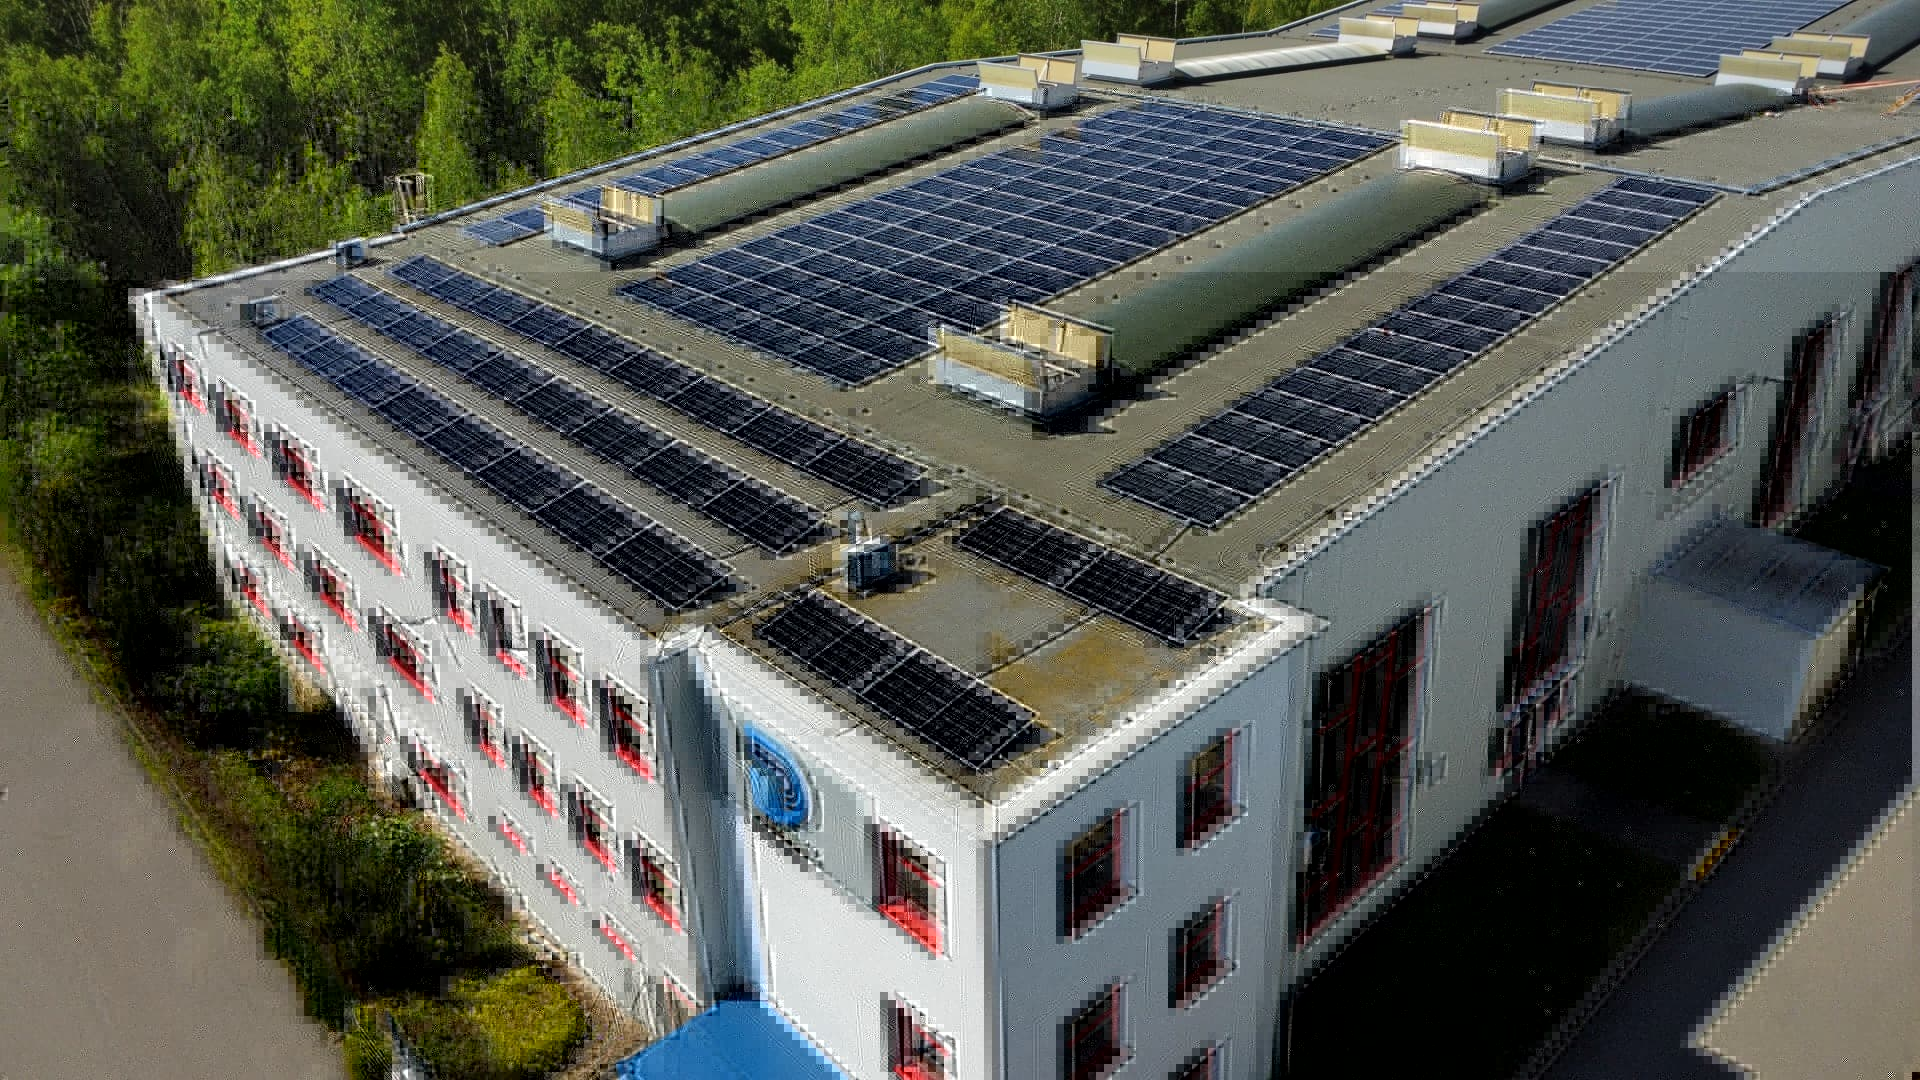
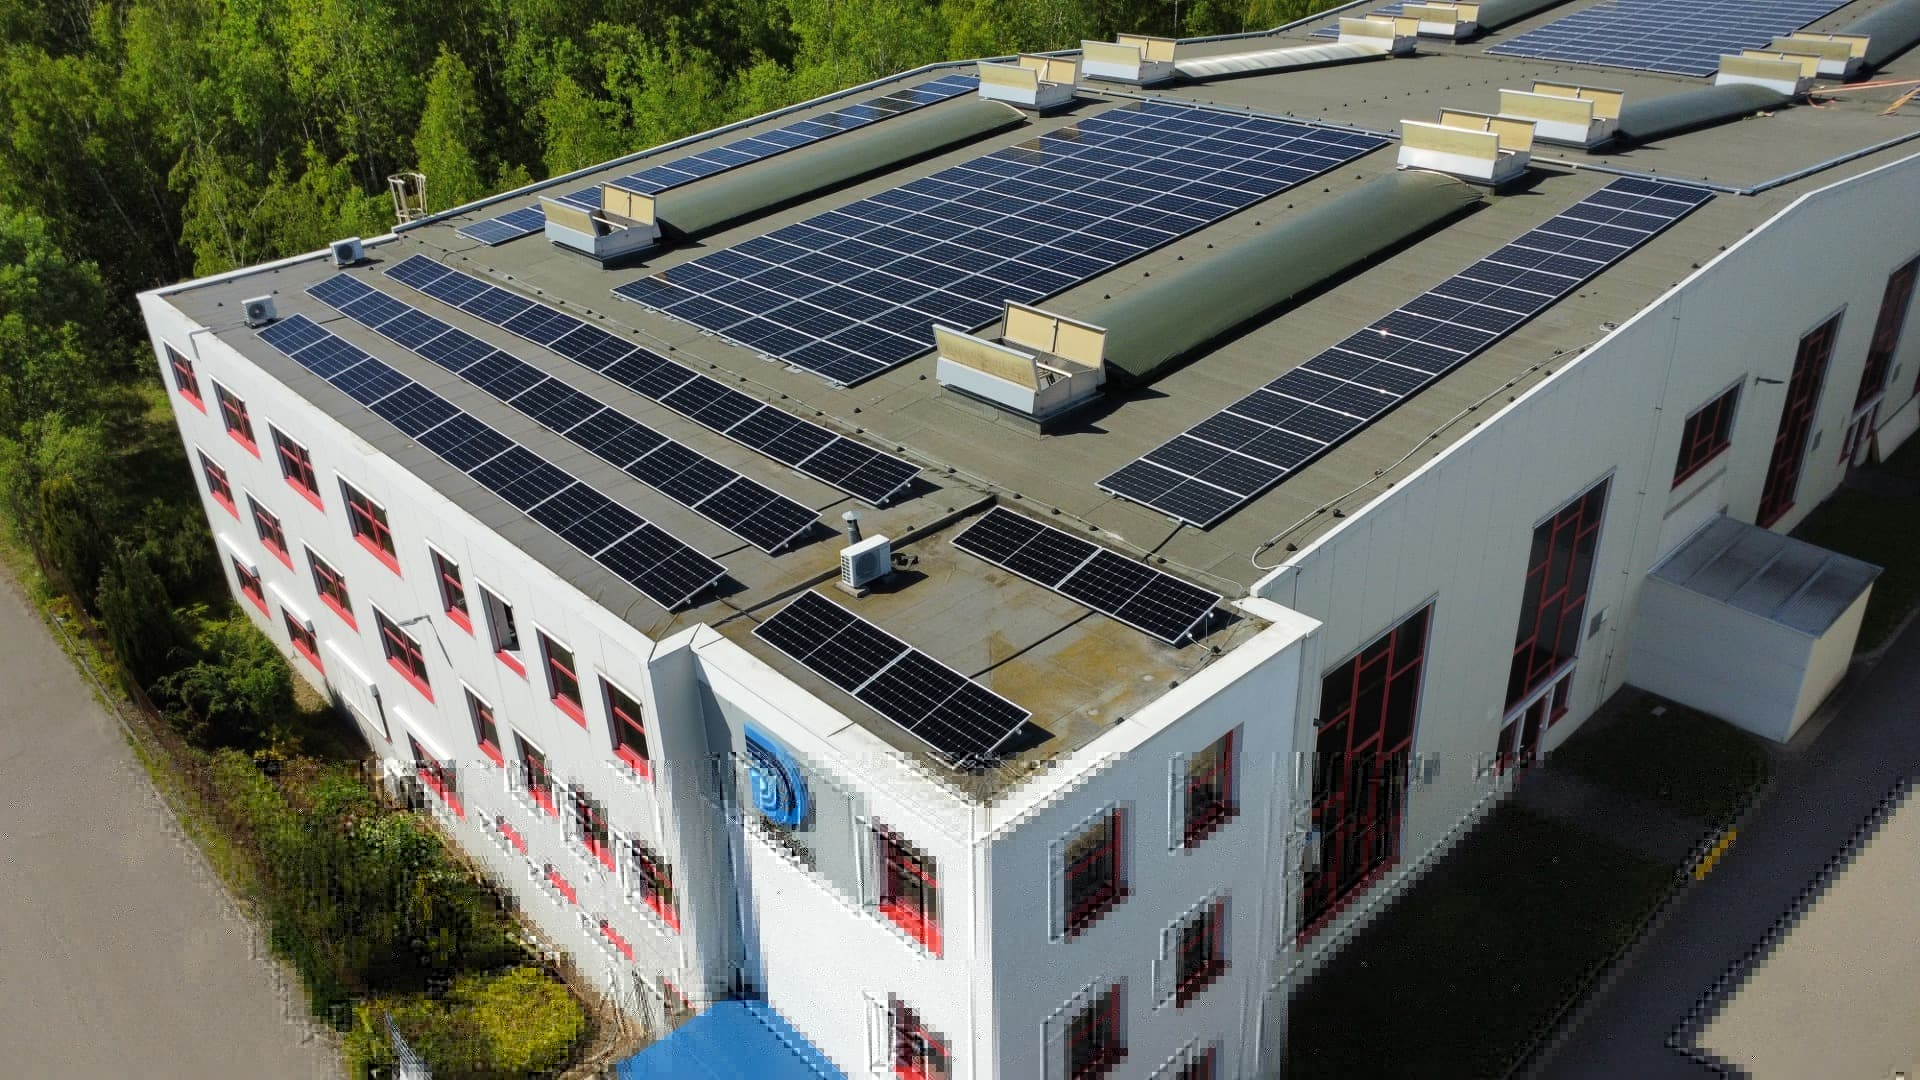
Aktualizace formátu fotek

diff --git a/templates/index.html b/templates/index.html
@@ -127,7 +127,7 @@
                                 <div class="portfolio-hover">
                                     <div class="portfolio-hover-content"><i class="fas fa-plus fa-3x"></i></div>
                                 </div>
-                                <img class="img-fluid" src="{{ url_for('static', filename='images/firma.jpg') }}" alt="firemní dům s fotovoltaikou">
+                                <img class="img-fluid" src="{{ url_for('static', filename='images/firma1.jpg') }}" alt="firemní dům s fotovoltaikou">
                             </a>
                             <div class="portfolio-caption">
                                 <div class="portfolio-caption-heading">FIRMY</div>
@@ -453,7 +453,7 @@ document.getElementById("contactForm").addEventListener("submit", async function
                                     <!-- Project details-->
                                     <h2 class="text-uppercase">BYTOVÉ DOMY</h2>
                                     <p class="item-intro text-muted">Lorem ipsum dolor sit amet consectetur.</p>
-                                    <img class="img-fluid d-block mx-auto" src="{{ url_for('static', filename='images/panelak.jpg') }}" alt="bytový dům s fotovoltaikou">
+                                    <img class="img-fluid d-block mx-auto" src="{{ url_for('static', filename='images/panelak2.jpg') }}" alt="bytový dům s fotovoltaikou">
                                     <p>Use this area to describe your project. Lorem ipsum dolor sit amet, consectetur adipisicing elit. Est blanditiis dolorem culpa incidunt minus dignissimos deserunt repellat aperiam quasi sunt officia expedita beatae cupiditate, maiores repudiandae, nostrum, reiciendis facere nemo!</p>
                                     <ul class="list-inline">
                                         <li>

diff --git a/docs/static/styles.css b/docs/static/styles.css
@@ -10894,6 +10894,9 @@ p {
   font-family: "Montserrat", -apple-system, BlinkMacSystemFont, "Segoe UI", Roboto, "Helvetica Neue", Arial, sans-serif, "Apple Color Emoji", "Segoe UI Emoji", "Segoe UI Symbol", "Noto Color Emoji";
   text-transform: uppercase;
   font-weight: 700;
+  color: black !important;
+  border-color: black;
+  border-width: 4px;
 }
 #mainNav .navbar-brand {
   color: #ffc800;
@@ -11265,7 +11268,7 @@ header.masthead .masthead-heading {
 
 section#contact {
   background-color: #005;
-  background-image: url("../static/images/map-image.avif");
+  background-image: url("../static/images/map-image.jpg");
   background-repeat: no-repeat;
   background-position: center;
 }

diff --git a/docs/index.html b/docs/index.html
@@ -127,7 +127,7 @@
                                 <div class="portfolio-hover">
                                     <div class="portfolio-hover-content"><i class="fas fa-plus fa-3x"></i></div>
                                 </div>
-                                <img class="img-fluid" src="static/images/firma.jpg" alt="firemní dům s fotovoltaikou">
+                                <img class="img-fluid" src="static/images/firma1.jpg" alt="firemní dům s fotovoltaikou">
                             </a>
                             <div class="portfolio-caption">
                                 <div class="portfolio-caption-heading">FIRMY</div>

diff --git a/static/styles.css b/static/styles.css
@@ -10901,6 +10901,9 @@ p {
   font-weight: 700;
   letter-spacing: 0.0625em;
   text-transform: uppercase;
+  color: black !important;
+  border-color: black;
+  border-width: 4px;
 }
 #mainNav .navbar-brand img {
   height: 5rem;
@@ -11265,7 +11268,7 @@ header.masthead .masthead-heading {
 
 section#contact {
   background-color: #005;
-  background-image: url("../static/images/map-image.avif");
+  background-image: url("../static/images/map-image.jpg");
   background-repeat: no-repeat;
   background-position: center;
 }
